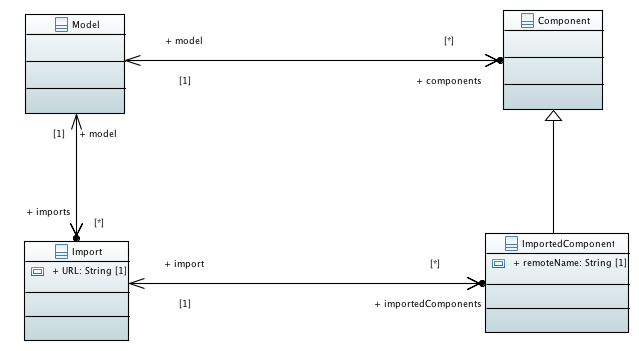
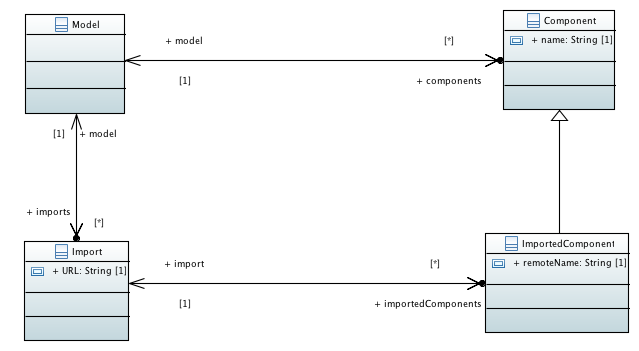
Diagram and description for imports.
Also, unhid name attribute of component superclass on Imports diagram.

Changed region(s): [[0.8028, 0.0285, 0.9812, 0.3134], [0.8623, 0.3134, 0.892, 0.6553]]

diff --git a/docs/source/objectModel.rst b/docs/source/objectModel.rst
@@ -61,6 +61,12 @@ Units of measure
 #. Units may be either base units or derived units.  
 #. A derived unit has a collection of "UnitsReference" objects that represent the definition of the derived unit.
 
+Imports
+-------
+.. figure:: /imageExports/Imports.PNG
+
+#. The component class has a subtype for imported components.  
+#. An imported component's local name is the stored by the inherited name attribute, the name of the component in the imported file is stored in the "remoteName" attribute.
 
 Stand alone methods
 -------------------
